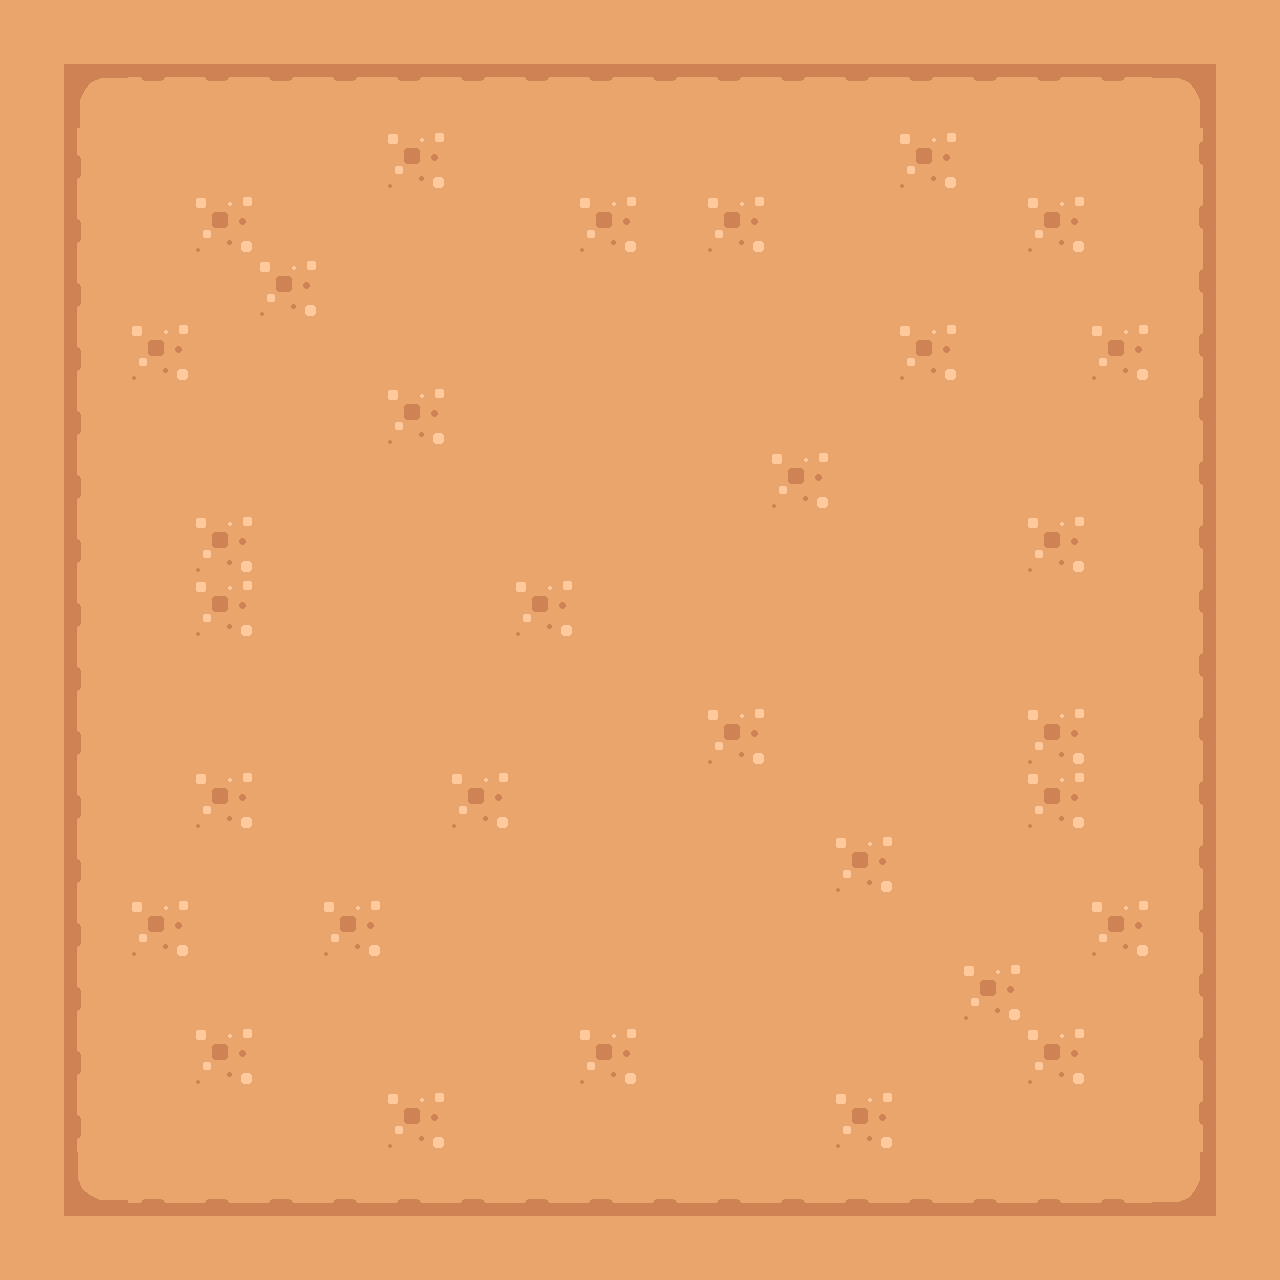
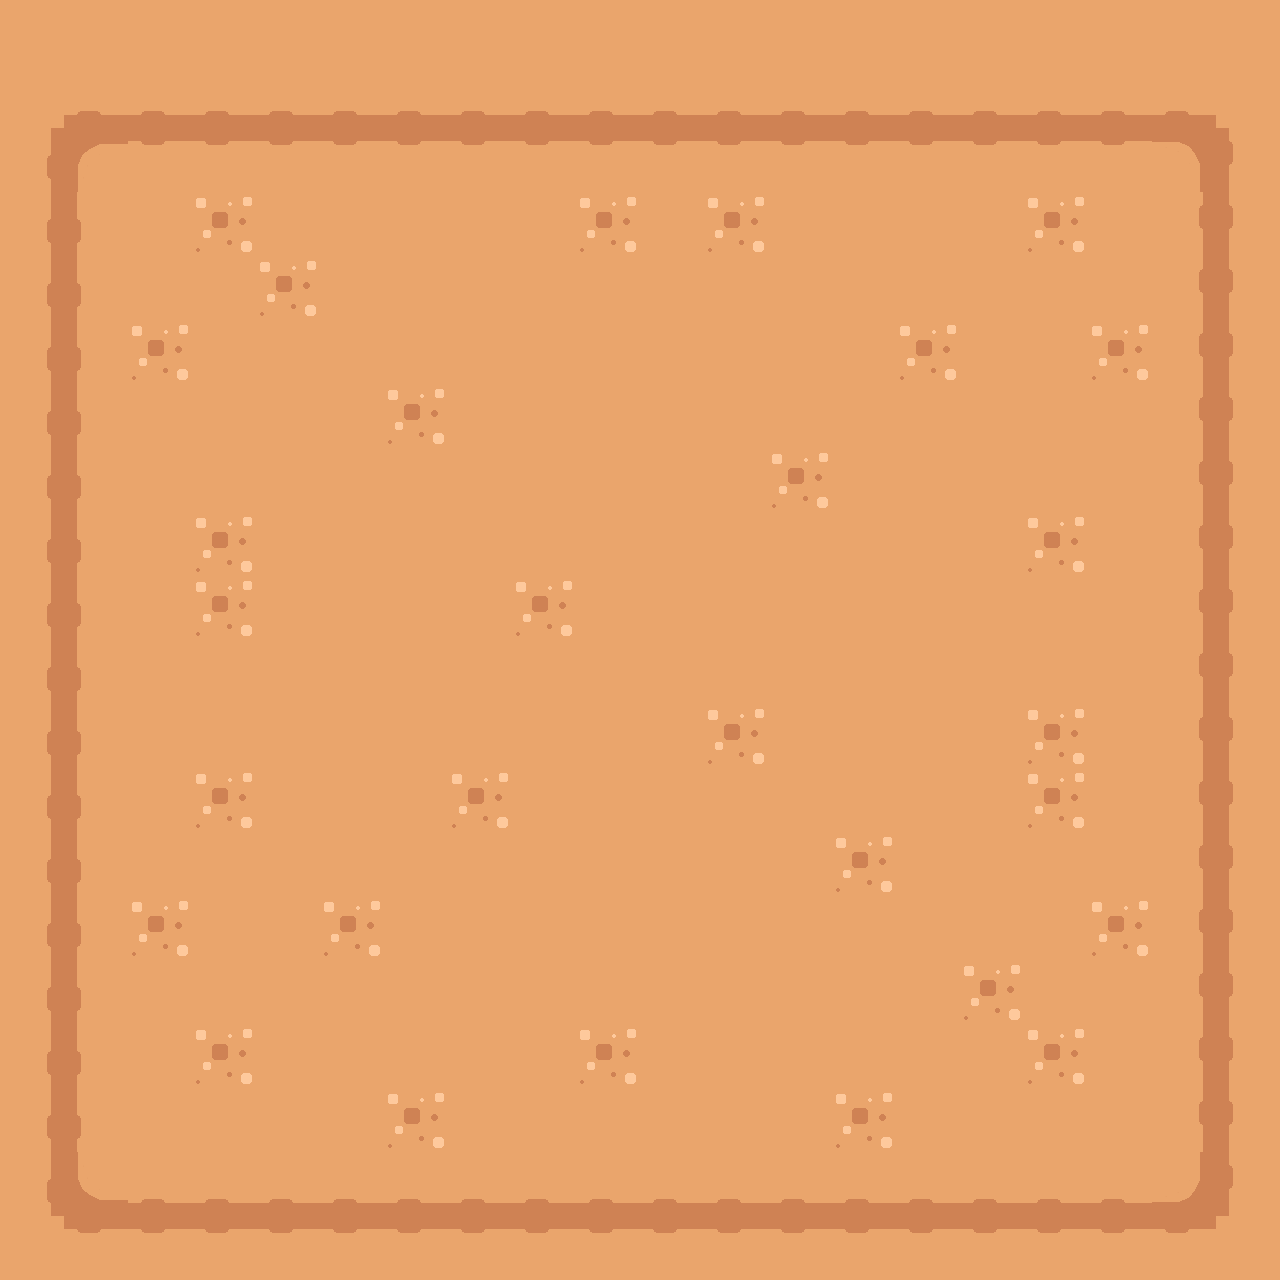
improved wall textures

Changed region(s): [[0.0312, 0.0312, 0.9688, 0.9688]]

diff --git a/settings.py b/settings.py
@@ -28,24 +28,24 @@ enemy_data = {
 
 # 20x20 
 WORLD_MAP = [
-['x','x','x','x','x','x','x','x','x','x','x','x','x','x','x','x','x','x','x','x'],
-['x','e',' ',' ',' ',' ',' ',' ',' ',' ',' ',' ',' ',' ',' ',' ',' ',' ',' ','x'],
-['x',' ',' ',' ',' ',' ',' ',' ',' ',' ',' ',' ',' ',' ',' ',' ',' ',' ',' ','x'],
-['x',' ',' ',' ',' ',' ',' ',' ',' ',' ',' ',' ',' ',' ',' ',' ',' ',' ',' ','x'],
-['x',' ',' ',' ',' ',' ',' ',' ',' ',' ',' ',' ',' ',' ',' ',' ',' ',' ',' ','x'],
-['x',' ',' ',' ',' ',' ',' ',' ',' ',' ',' ',' ',' ',' ',' ',' ',' ',' ',' ','x'],
-['x',' ',' ',' ',' ',' ',' ',' ',' ',' ',' ',' ',' ',' ',' ',' ',' ',' ',' ','x'],
-['x',' ',' ',' ',' ',' ',' ',' ',' ',' ',' ',' ',' ',' ',' ',' ',' ',' ',' ','x'],
-['x',' ',' ',' ',' ',' ',' ',' ',' ',' ',' ',' ',' ',' ',' ',' ',' ',' ',' ','x'],
-['x',' ',' ',' ',' ',' ',' ',' ',' ',' ',' ',' ',' ',' ',' ',' ',' ',' ',' ','x'],
-['x',' ',' ',' ',' ',' ',' ',' ',' ','p',' ',' ',' ',' ',' ',' ',' ',' ',' ','x'],
-['x',' ',' ',' ',' ',' ',' ',' ',' ',' ',' ',' ',' ',' ',' ',' ',' ',' ',' ','x'],
-['x',' ',' ',' ',' ',' ',' ',' ',' ',' ',' ',' ',' ',' ',' ',' ',' ',' ',' ','x'],
-['x',' ',' ',' ',' ',' ',' ',' ',' ',' ',' ',' ',' ',' ',' ',' ',' ',' ',' ','x'],
-['x',' ',' ',' ',' ',' ',' ',' ',' ',' ',' ',' ','e',' ',' ',' ',' ',' ',' ','x'],
-['x',' ',' ',' ',' ',' ',' ',' ',' ',' ',' ',' ',' ',' ',' ',' ',' ',' ',' ','x'],
-['x',' ',' ',' ',' ',' ',' ',' ',' ',' ',' ',' ',' ',' ',' ',' ',' ',' ',' ','x'],
-['x',' ',' ',' ',' ',' ',' ',' ',' ',' ',' ',' ',' ',' ',' ',' ',' ',' ',' ','x'],
-['x',' ',' ',' ',' ',' ',' ',' ',' ',' ',' ',' ',' ',' ',' ',' ',' ',' ',' ','x'],
-['x','x','x','x','x','x','x','x','x','x','x','x','x','x','x','x','x','x','x','x'],
+['tl','t','t','t','t','t','t','t','t','t','t','t','t','t','t','t','t','t','t','tr'],
+['l','x','x','x','x','x','x','x','x','x','x','x','x','x','x','x','x','x','x','r'],
+['l','e',' ',' ',' ',' ',' ',' ',' ',' ',' ',' ',' ',' ',' ',' ',' ',' ',' ','r'],
+['l',' ',' ',' ',' ',' ',' ',' ',' ',' ',' ',' ',' ',' ',' ',' ',' ',' ',' ','r'],
+['l',' ',' ',' ',' ',' ',' ',' ',' ',' ',' ',' ',' ',' ',' ',' ',' ',' ',' ','r'],
+['l',' ',' ',' ',' ',' ',' ',' ',' ',' ',' ',' ',' ',' ',' ',' ',' ',' ',' ','r'],
+['l',' ',' ',' ',' ',' ',' ',' ',' ',' ',' ',' ',' ',' ',' ',' ',' ',' ',' ','r'],
+['l',' ',' ',' ',' ',' ',' ',' ',' ',' ',' ',' ',' ',' ',' ',' ',' ',' ',' ','r'],
+['l',' ',' ',' ',' ',' ',' ',' ',' ',' ',' ',' ',' ',' ',' ',' ',' ',' ',' ','r'],
+['l',' ',' ',' ',' ',' ',' ',' ',' ',' ',' ',' ',' ',' ',' ',' ',' ',' ',' ','r'],
+['l',' ',' ',' ',' ',' ',' ',' ',' ','p',' ',' ',' ',' ',' ',' ',' ',' ',' ','r'],
+['l',' ',' ',' ',' ',' ',' ',' ',' ',' ',' ',' ',' ',' ',' ',' ',' ',' ',' ','r'],
+['l',' ',' ',' ',' ',' ',' ',' ',' ',' ',' ',' ',' ',' ',' ',' ',' ',' ',' ','r'],
+['l',' ',' ',' ',' ',' ',' ',' ',' ',' ',' ',' ',' ',' ',' ',' ',' ',' ',' ','r'],
+['l',' ',' ',' ',' ',' ',' ',' ',' ',' ',' ',' ','e',' ',' ',' ',' ',' ',' ','r'],
+['l',' ',' ',' ',' ',' ',' ',' ',' ',' ',' ',' ',' ',' ',' ',' ',' ',' ',' ','r'],
+['l',' ',' ',' ',' ',' ',' ',' ',' ',' ',' ',' ',' ',' ',' ',' ',' ',' ',' ','r'],
+['l',' ',' ',' ',' ',' ',' ',' ',' ',' ',' ',' ',' ',' ',' ',' ',' ',' ',' ','r'],
+['l',' ',' ',' ',' ',' ',' ',' ',' ',' ',' ',' ',' ',' ',' ',' ',' ',' ',' ','r'],
+['bl','b','b','b','b','b','b','b','b','b','b','b','b','b','b','b','b','b','b','br'],
 ]

diff --git a/tile.py b/tile.py
@@ -2,10 +2,30 @@ import pygame
 from settings import *
 
 class Tile(pygame.sprite.Sprite):
-    def __init__(self, pos, groups, sprite_type):
+    def __init__(self, pos, groups, sprite_type, orientation):
         super().__init__(groups)
         # self.image = pygame.image.load('./assets/wall_1.png')
-        picture = pygame.image.load('./assets/wall_1.png').convert_alpha()
+        if orientation == 'x':
+            loadPic = 'wall_1'
+        if orientation == 't':
+            loadPic = 'wall_3'
+        if orientation == 'b':
+            loadPic = 'wall_6'
+        if orientation == 'l':
+            loadPic = 'wall_4'
+        if orientation == 'r':
+            loadPic = 'wall_5'
+
+        if orientation == 'br':
+            loadPic = 'wall_9'
+        if orientation == 'bl':
+            loadPic = 'wall_8'
+        if orientation == 'tr':
+            loadPic = 'wall_2'
+        if orientation == 'tl':
+            loadPic = 'wall_7'
+
+        picture = pygame.image.load(f'./assets/wall/{loadPic}.png').convert_alpha()
         self.image = picture = pygame.transform.scale(picture, (64, 64))
 
         self.sprite_type = sprite_type

diff --git a/level.py b/level.py
@@ -28,8 +28,8 @@ class Level:
 			for col_index, col in enumerate(row):
 				x = col_index * TILESIZE
 				y = row_index * TILESIZE
-				if col == 'x':
-					Tile((x,y),[self.visible_sprites,self.obstacle_sprites], 'wall')
+				if col == 'x' or col == 'l' or col == 'r' or col == 't' or col == 'b' or col == 'br' or col == 'bl' or col == 'tr' or col == 'tl':
+					Tile((x,y),[self.visible_sprites,self.obstacle_sprites], 'wall', col)
 				if col == 'p':
 					self.player = Player((x,y), [self.visible_sprites], self.obstacle_sprites, self.create_projectile)
 				# temp for enemy testing

diff --git a/projectile.py b/projectile.py
@@ -28,7 +28,7 @@ class Projectile(pygame.sprite.Sprite):
     def update(self):  
 
         # kill projectile when they reach the wall boundaries
-        if self.rect.left < TILESIZE or self.rect.right > WIDTH - TILESIZE + 20 or self.rect.top < TILESIZE - 45 or self.rect.bottom > 1280 - TILESIZE + 45:
+        if self.rect.left < TILESIZE or self.rect.right > WIDTH - TILESIZE + 20 or self.rect.top < TILESIZE*2 - 45 or self.rect.bottom > 1280 - TILESIZE + 45:
             self.kill()
 
         # aiming line
